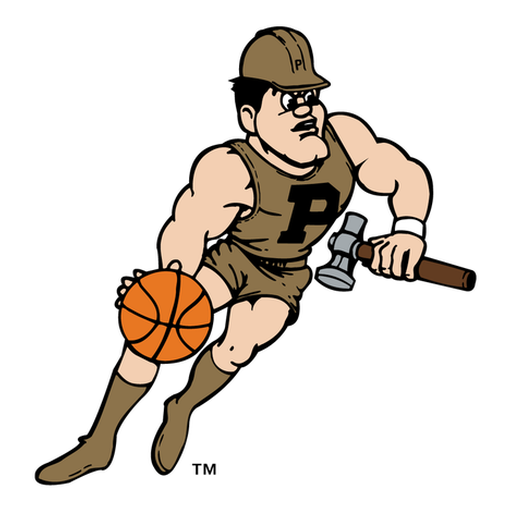
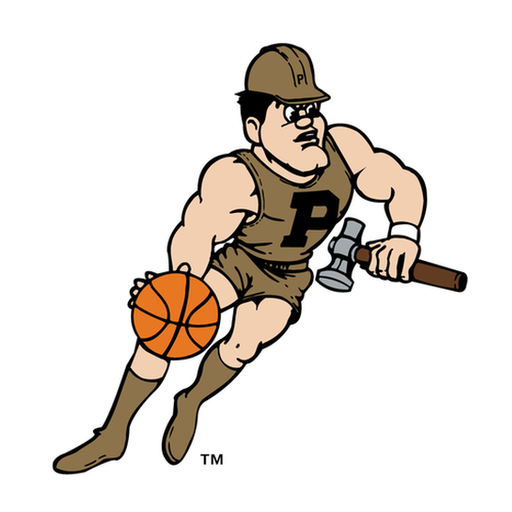
Rebalance Goldy and Purdue Pete source artwork within vintage double rings (#356)
* Add reproducible non-CSS source-art fix for Goldy and Purdue Pete

* Verify and commit pixel-art Goldy and Purdue Pete ring-clearance correction

* Give Goldy and Purdue Pete centered space inside the rings

* Remove completed one-off mascot ring-clearance processing workflow

---------

Changed region(s): [[0.0625, 0.0312, 0.9375, 0.9688], [0.5312, 0.625, 0.5625, 0.6562]]

diff --git a/cbb-big-ten-1980s-preview.html b/cbb-big-ten-1980s-preview.html
@@ -63,12 +63,12 @@ a{color:#74412e}a:focus-visible{outline:3px solid #bd672f}
 <article class="school"><span class="crest " style="--primary:#231f20;--secondary:#fcd116"><img src="assets/cbb-big-ten-1980s/centered/iowa.png" alt="Iowa Hawkeyes historic school logo" loading="eager" decoding="async"><span class="fallback-note">Image unavailable</span></span><strong>Iowa Hawkeyes</strong><div class="era">Archive era: 1979–present</div></article>
 <article class="school"><span class="crest " style="--primary:#00274c;--secondary:#ffcb05"><img src="assets/cbb-big-ten-1980s/centered/michigan.png" alt="Michigan Wolverines historic school logo" loading="eager" decoding="async"><span class="fallback-note">Image unavailable</span></span><strong>Michigan Wolverines</strong><div class="era">Archive era: 1901–1994</div></article>
 <article class="school"><span class="crest " style="--primary:#173f35;--secondary:#627a74"><img src="assets/cbb-big-ten-1980s/centered/michigan-state.png" alt="Michigan State Spartans historic school logo" loading="eager" decoding="async"><span class="fallback-note">Image unavailable</span></span><strong>Michigan State Spartans</strong><div class="era">Archive era: 1977–2010</div></article>
-<article class="school"><span class="crest " style="--primary:#5e0a2f;--secondary:#fab41c"><img src="assets/cbb-big-ten-1980s/centered/minnesota.png?v=20261113-optical-v2" alt="Minnesota Golden Gophers user-selected vintage running gopher logo" loading="eager" decoding="async"><span class="fallback-note">Image unavailable</span></span><strong>Minnesota Golden Gophers</strong><div class="era">User-selected historic running gopher</div></article>
+<article class="school"><span class="crest " style="--primary:#5e0a2f;--secondary:#fab41c"><img src="assets/cbb-big-ten-1980s/centered/minnesota.png?v=20261114-ring-safe-v3" alt="Minnesota Golden Gophers user-selected vintage running gopher logo" loading="eager" decoding="async"><span class="fallback-note">Image unavailable</span></span><strong>Minnesota Golden Gophers</strong><div class="era">User-selected historic running gopher</div></article>
 <article class="school"><span class="crest " style="--primary:#492f92;--secondary:#8070ac"><img src="assets/cbb-big-ten-1980s/centered/northwestern.png?v=20261113-optical-v2" alt="Northwestern Wildcats historic school logo" loading="eager" decoding="async"><span class="fallback-note">Image unavailable</span></span><strong>Northwestern Wildcats</strong><div class="era">Archive era: 1981–2011</div></article>
 <article class="school"><span class="crest " style="--primary:#ba0c2f;--secondary:#a8adb4"><img src="assets/cbb-big-ten-1980s/centered/ohio-state.png" alt="Ohio State Buckeyes historic school logo" loading="eager" decoding="async"><span class="fallback-note">Image unavailable</span></span><strong>Ohio State Buckeyes</strong><div class="era">Archive era: 1968–1987</div></article>
-<article class="school"><span class="crest " style="--primary:#ceb888;--secondary:#000000"><img src="assets/cbb-big-ten-1980s/centered/purdue.png?v=20261113-optical-v2" alt="Purdue Boilermakers historic school logo" loading="eager" decoding="async"><span class="fallback-note">Image unavailable</span></span><strong>Purdue Boilermakers</strong><div class="era">Archive era:1979–2006</div></article>
+<article class="school"><span class="crest " style="--primary:#ceb888;--secondary:#000000"><img src="assets/cbb-big-ten-1980s/centered/purdue.png?v=20261114-ring-safe-v3" alt="Purdue Boilermakers historic school logo" loading="eager" decoding="async"><span class="fallback-note">Image unavailable</span></span><strong>Purdue Boilermakers</strong><div class="era">Archive era:1979–2006</div></article>
 <article class="school"><span class="crest " style="--primary:#a00000;--secondary:#b45454"><img src="assets/cbb-big-ten-1980s/centered/wisconsin.png" alt="Wisconsin Badgers historic school logo" loading="eager" decoding="async"><span class="fallback-note">Image unavailable</span></span><strong>Wisconsin Badgers</strong><div class="era">Archive era:1970–2003</div></article>
 </div></section>
-<section aria-labelledby="scorebugs"><h2 id="scorebugs">How the bigger logos fit on scorebugs</h2><div class="bench"><article class="ledger-card"><div class="ledger-kicker">Men's college basketball <span>DESIGN SAMPLE • NOT A SCHEDULED GAME</span></div><div class="ledger-main"><div class="ledger-row"><span class="crest ledger-crest" style="--primary:#990000;--secondary:#f5e3cc"><img src="assets/cbb-big-ten-1980s/centered/indiana.png" alt="Indiana Hoosiers historic school logo" loading="eager" decoding="async"><span class="fallback-note">Image unavailable</span></span><div class="ledger-school"><strong>Indiana Hoosiers</strong><small>Original historical university crest</small></div><div class="ledger-score">—</div></div><div class="ledger-row"><span class="crest ledger-crest" style="--primary:#173f35;--secondary:#627a74"><img src="assets/cbb-big-ten-1980s/centered/michigan-state.png" alt="Michigan State Spartans historic school logo" loading="eager" decoding="async"><span class="fallback-note">Image unavailable</span></span><div class="ledger-school"><strong>Michigan State Spartans</strong><small>Original historical university crest</small></div><div class="ledger-score">—</div></div></div><div class="ledger-foot"><span>RETRO —</span><span>Large emblems · No name overlap</span></div></article><article class="ledger-card"><div class="ledger-kicker">Women's college basketball <span>DESIGN SAMPLE • NOT A SCHEDULED GAME</span></div><div class="ledger-main"><div class="ledger-row"><span class="crest ledger-crest" style="--primary:#ff5f05;--secondary:#13294b"><img src="assets/cbb-big-ten-1980s/centered/illinois.png" alt="Illinois Fighting Illini historic school logo" loading="eager" decoding="async"><span class="fallback-note">Image unavailable</span></span><div class="ledger-school"><strong>Illinois Fighting Illini</strong><small>Original historical university crest</small></div><div class="ledger-score">—</div></div><div class="ledger-row"><span class="crest ledger-crest" style="--primary:#ceb888;--secondary:#000000"><img src="assets/cbb-big-ten-1980s/centered/purdue.png?v=20261113-optical-v2" alt="Purdue Boilermakers historic school logo" loading="eager" decoding="async"><span class="fallback-note">Image unavailable</span></span><div class="ledger-school"><strong>Purdue Boilermakers</strong><small>Original historical university crest</small></div><div class="ledger-score">—</div></div></div><div class="ledger-foot"><span>RETRO —</span><span>Large emblems · No name overlap</span></div></article></div></section>
+<section aria-labelledby="scorebugs"><h2 id="scorebugs">How the bigger logos fit on scorebugs</h2><div class="bench"><article class="ledger-card"><div class="ledger-kicker">Men's college basketball <span>DESIGN SAMPLE • NOT A SCHEDULED GAME</span></div><div class="ledger-main"><div class="ledger-row"><span class="crest ledger-crest" style="--primary:#990000;--secondary:#f5e3cc"><img src="assets/cbb-big-ten-1980s/centered/indiana.png" alt="Indiana Hoosiers historic school logo" loading="eager" decoding="async"><span class="fallback-note">Image unavailable</span></span><div class="ledger-school"><strong>Indiana Hoosiers</strong><small>Original historical university crest</small></div><div class="ledger-score">—</div></div><div class="ledger-row"><span class="crest ledger-crest" style="--primary:#173f35;--secondary:#627a74"><img src="assets/cbb-big-ten-1980s/centered/michigan-state.png" alt="Michigan State Spartans historic school logo" loading="eager" decoding="async"><span class="fallback-note">Image unavailable</span></span><div class="ledger-school"><strong>Michigan State Spartans</strong><small>Original historical university crest</small></div><div class="ledger-score">—</div></div></div><div class="ledger-foot"><span>RETRO —</span><span>Large emblems · No name overlap</span></div></article><article class="ledger-card"><div class="ledger-kicker">Women's college basketball <span>DESIGN SAMPLE • NOT A SCHEDULED GAME</span></div><div class="ledger-main"><div class="ledger-row"><span class="crest ledger-crest" style="--primary:#ff5f05;--secondary:#13294b"><img src="assets/cbb-big-ten-1980s/centered/illinois.png" alt="Illinois Fighting Illini historic school logo" loading="eager" decoding="async"><span class="fallback-note">Image unavailable</span></span><div class="ledger-school"><strong>Illinois Fighting Illini</strong><small>Original historical university crest</small></div><div class="ledger-score">—</div></div><div class="ledger-row"><span class="crest ledger-crest" style="--primary:#ceb888;--secondary:#000000"><img src="assets/cbb-big-ten-1980s/centered/purdue.png?v=20261114-ring-safe-v3" alt="Purdue Boilermakers historic school logo" loading="eager" decoding="async"><span class="fallback-note">Image unavailable</span></span><div class="ledger-school"><strong>Purdue Boilermakers</strong><small>Original historical university crest</small></div><div class="ledger-score">—</div></div></div><div class="ledger-foot"><span>RETRO —</span><span>Large emblems · No name overlap</span></div></article></div></section>
 <footer class="notes"><strong>Design preview, not a live scoreboard.</strong> The matchups above demonstrate the layout only, and the dashes are not game results. Later Big Ten additions will retain their own authentic institutional logos and are not presented as 1980s Big Ten members. This page does not change schedules, RETRO calculations, or any live CBB page. Historical school marks belong to their respective institutions.</footer>
 </main></body></html>

diff --git a/scripts/refine_big_ten_mascots_v3.py b/scripts/refine_big_ten_mascots_v3.py
@@ -1,0 +1,128 @@
+#!/usr/bin/env python3
+"""Recenter the visible ink of two original 1980s Big Ten mascot PNGs.
+
+This alters only source artwork pixels on existing 512x512 canvases. It keeps
+the user's Minnesota gopher and the archival Purdue Pete illustration intact;
+the HTML/CSS rings and renderer are never repositioned or resized.
+"""
+from __future__ import annotations
+
+import hashlib
+from io import BytesIO
+import json
+from pathlib import Path
+from PIL import Image
+
+ROOT = Path(__file__).resolve().parent.parent
+IMAGES = ROOT / "assets/cbb-big-ten-1980s/centered"
+PAGE = ROOT / "cbb-big-ten-1980s-preview.html"
+REPORT = ROOT / "reports/big-ten-mascot-ring-clearance-v3.json"
+SIDE = 512
+PINNED_SHA = {
+    "minnesota": "8ae1c06954d0072d9fe724747cc5774d9be22744",
+    "purdue": "a36001c511a9de50d0270cb95b686ad2e1669535"
+}
+# The last pass overshot both mascots: 462 and 460px of visible art.
+# Split the difference with the earlier 426/422px pass, add slight optical
+# corrections, and leave extra white space before the fixed inner ring.
+TARGET = {
+    "minnesota": {"long": 440, "x": -5, "y": +8},
+    "purdue": {"long": 438, "x": +4, "y": +3}
+}
+OLD_VERSION = "20261113-optical-v2"
+NEW_VERSION = "20261114-ring-safe-v3"
+
+def git_sha(raw):
+    return hashlib.sha1(b"blob " + str(len(raw)).encode() + b"\x00" + raw).hexdigest()
+
+def measure(im):
+    assert im.size == (SIDE, SIDE)
+    im = im.convert("RGBA")
+    xs, ys, masses = [], [], []
+    rad_out_238 = 0
+    rad_out_224 = 0
+    for y in range(SIDE):
+        for x in range(SIDE):
+            r, g, b, alpha = im.getpixel((x, y))
+            if alpha < 100 or (r >= 241 and g >= 241 and b >= 241):
+                continue
+            xs.append(x); ys.append(y)
+            masses.append(max(1, 255-min(r,g,b)))
+            dist = (x-256)**2+(y-256)**2
+            rad_out_238 += dist > 238**2
+            rad_out_224 += dist > 224**2
+    assert len(xs) > 1000, "Mascot ink disappeared unexpectedly"
+    total = sum(masses)
+    bbox = [min(xs), min(ys), max(xs)+1, max(ys)+1]
+    centroid = [sum(x*m for x,m in zip(xs,masses))/total,
+                sum(y*m for y,m in zip(ys,masses))/total]
+    return {
+        "bounds": bbox,
+        "long_px": max(bbox[2]-bbox[0], bbox[3]-bbox[1]),
+        "ink_center": [round(c, 2) for c in centroid],
+        "centroid_error": round(((centroid[0]-256)**2+(centroid[1]-256)**2)**.5, 2),
+        "outside_radius_238_fraction": round(rad_out_238/len(xs), 5),
+        "outside_radius_224_fraction": round(rad_out_224/len(xs), 5),
+        "ink_pixels": len(xs)
+    }
+
+def safe_mascot_image(img, target):
+    a=measure(img)
+    x0,y0,x1,y1=a["bounds"]
+    # Retain the signature, ball, stripework, limbs, tail and small trademarks.
+    pad=3
+    region=img.crop((max(0,x0-pad),max(0,y0-pad),
+                     min(SIDE,x1+pad),min(SIDE,y1+pad)))
+    ratio=target["long"]/max(region.width,region.height)
+    dims=(max(1,round(region.width*ratio)),max(1,round(region.height*ratio)))
+    foreground=region.resize(dims,Image.Resampling.LANCZOS)
+    result=Image.new("RGBA",(SIDE,SIDE),(255,255,255,255))
+    x=(SIDE-dims[0])//2+target["x"]
+    y=(SIDE-dims[1])//2+target["y"]
+    if min(x,y)<3 or x+dims[0]>SIDE-3 or y+dims[1]>SIDE-3:
+        raise AssertionError("Mascot touches source canvas edge")
+    result.alpha_composite(foreground,(x,y))
+    return result
+
+def main():
+    report={"policy":"Source artwork only; plain centered CSS unchanged",
+            "model":"fixed rings and two-color borders, no new CSS/JS offsets",
+            "teams":{}}
+    for team,target in TARGET.items():
+        path=IMAGES/(team+".png")
+        raw=path.read_bytes()
+        if git_sha(raw)!=PINNED_SHA[team]:
+            raise AssertionError(f"Input artwork changed: {team}, refusing repeated transform")
+        original=Image.open(BytesIO(raw)).convert("RGBA")
+        before=measure(original)
+        result=safe_mascot_image(original,target)
+        after=measure(result)
+        # Both ring-boundary crowding and optical centering must improve.
+        if after["long_px"]>=before["long_px"] or after["long_px"]<420:
+            raise AssertionError(f"{team} logo size outside balanced range")
+        if after["centroid_error"]>=before["centroid_error"]:
+            raise AssertionError(f"{team} visual ink center did not improve")
+        if after["outside_radius_238_fraction"]>=before["outside_radius_238_fraction"]:
+            raise AssertionError(f"{team} image still crowds inner ring")
+        report["teams"][team]={"before":before,"after":after,
+          "target_long":target["long"],"optical_shift":[target["x"],target["y"]]}
+        result.save(path,format="PNG",optimize=True)
+
+    html=PAGE.read_text(encoding="utf-8")
+    for team,number in [("minnesota",1),("purdue",2)]:
+        old=f"assets/cbb-big-ten-1980s/centered/{team}.png?v={OLD_VERSION}"
+        new=f"assets/cbb-big-ten-1980s/centered/{team}.png?v={NEW_VERSION}"
+        if html.count(old)!=number:
+            raise AssertionError(f"{team}: unexpected gallery/ledger reference count")
+        html=html.replace(old,new)
+    assert html.count(f"?v={NEW_VERSION}")==3
+    assert html.count('<img src="assets/cbb-big-ten-1980s/centered/')==14
+    assert "--slt-ink-" not in html and "cbb-big-ten-optical-center" not in html
+    PAGE.write_text(html,encoding="utf-8")
+    REPORT.parent.mkdir(exist_ok=True)
+    REPORT.write_text(json.dumps(report,indent=2)+"\n")
+    print(json.dumps(report,indent=2))
+    print("PASS: 2 optically rebalanced PNGs, 3 cache-refreshed uses, 14 intact logo placements")
+
+if __name__=="__main__":
+    main()
